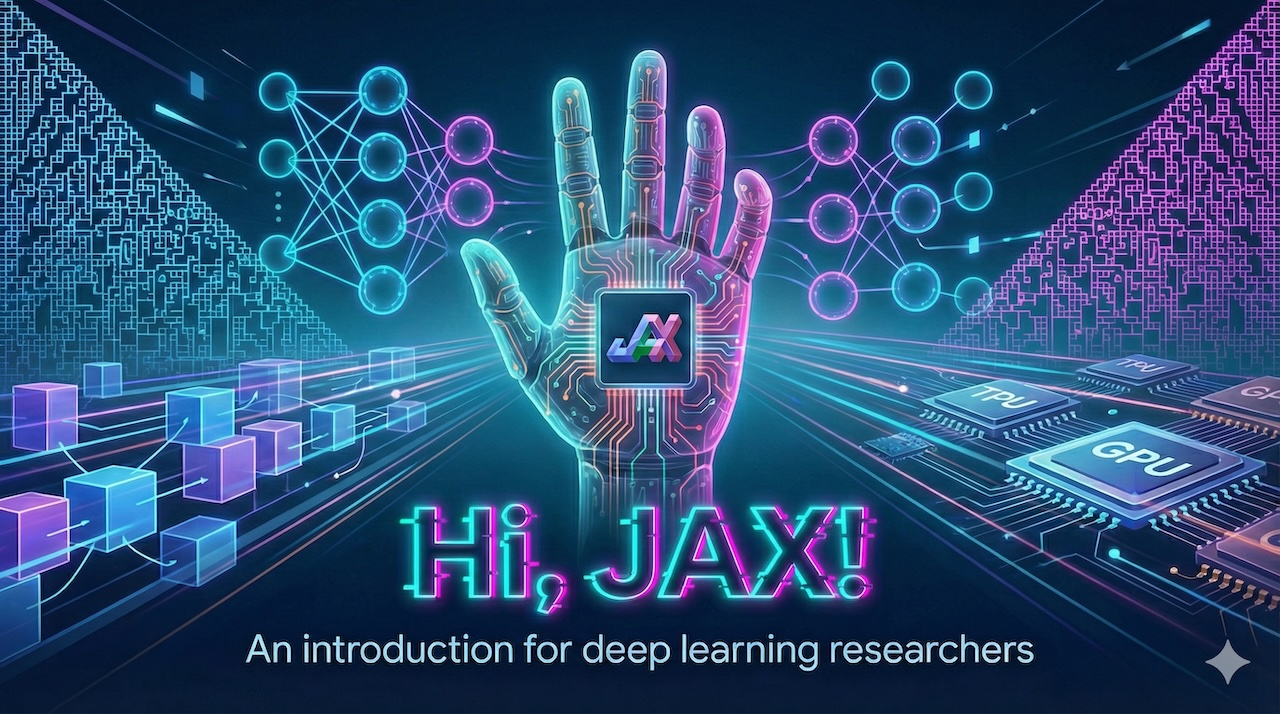
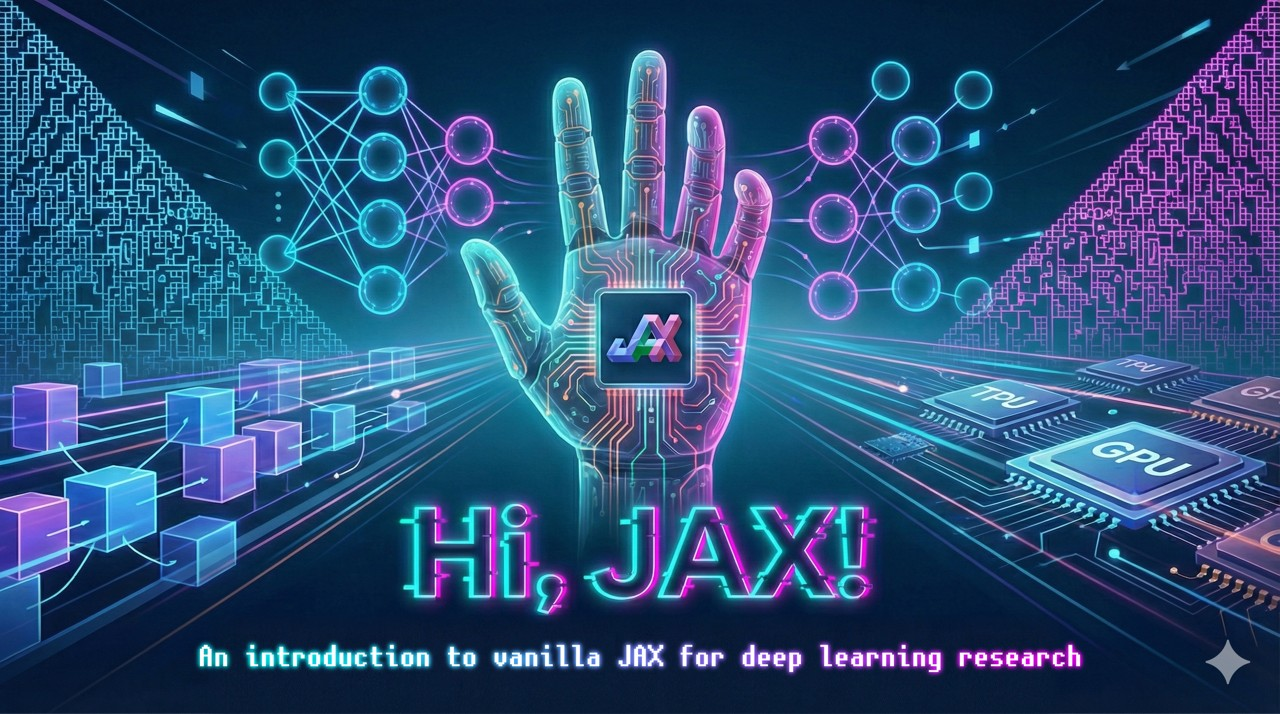
update readme

diff --git a/README.md b/README.md
@@ -2,28 +2,37 @@
   <img
     src="gallery/banner.jpg"
     alt="Hi, JAX! An introduction to JAX for deep learning researchers"
-    title="(Image generated by Nano Banana Pro)"
+    title="(Image generated by Nano Banana Pro and lightly edited by MFR)"
   />
 </h1>
 
-This is the codebase for "Hi, JAX!", an introduction to
+Welcome to "Hi, JAX!", an introduction to vanilla
   [JAX](https://jax.readthedocs.io/)
 for deep learning researchers.
 
-*Note:
-  This page is for the online edition of Hi, JAX! See also:
-    [2024 edition](https://far.in.net/hijax-2024).
-  Visualisations/animations made with
-    [matthewplotlib](https://github.com/matomatical/matthewplotlib).
-  Banner image by Nano Banana Pro.*
+Contents:
 
-# Status
+* [Status](#status)
+* [Syllabus](#syllabus)
+  * [Overture](#overture)
+  * [Act I: Basics](#act-i-basics)
+  * [Act II: Acceleration](#act-ii-acceleration)
+  * [Finale](#finale)
+  * [Projects](#projects)
+* [Prerequisites](#prerequisites)
+* [Getting started](#getting-started)
+* [Why learn JAX?](#why-learn-jax)
+* [Beyond the fundamentals](#beyond-the-fundamentals)
 
-The code examples and recording of video lectures are a work in progress:
+Notes:
 
-* Code examples implemented: 12/12.
-* Video lectures recorded: 11/12.
-* Video lectures edited and published: 11/12.
+* Banner image design by Gemini 3 Pro and generation by Nano Banana Pro (by the
+  way, both of these models were trained with JAX). 
+* This page is for the online edition of Hi, JAX! See also:
+    [2024 edition](https://far.in.net/hijax-2024).*
+* This course is a work in progress. Here is the current status:
+  * Code examples implemented: 12/12.
+  * Videos recorded, edited, published: 11/12.
 
 # Syllabus
 
